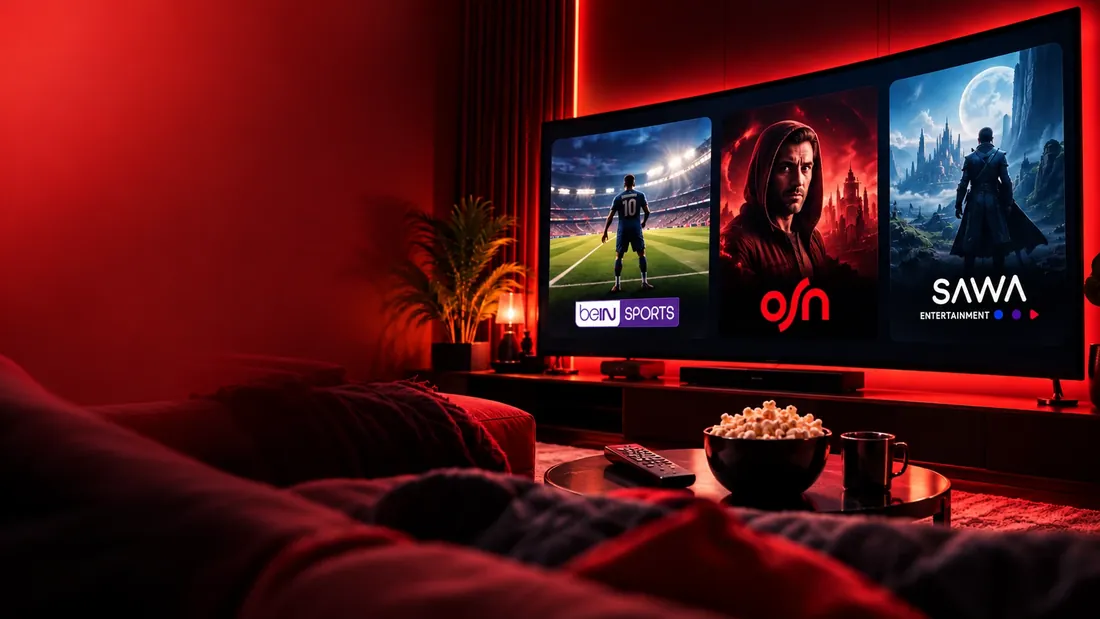
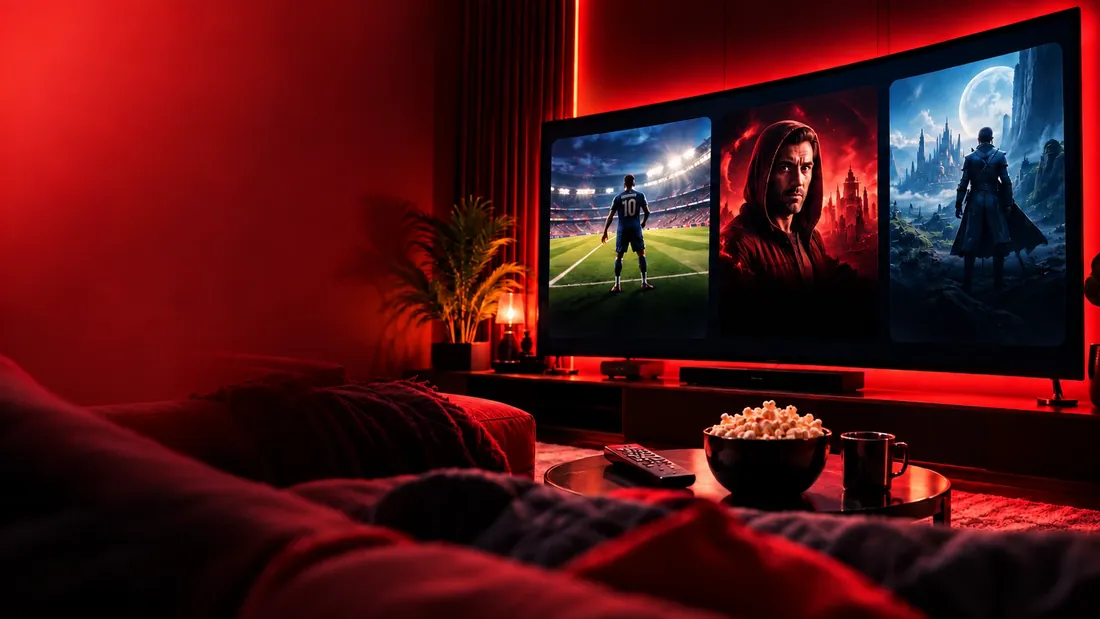
Replace offer 3 photo and restore full-size framing
New offer 3 image has no on-screen logos, so drop the zoom-out and let it fill
the card (cover) like the other cards.

Claude-Session: https://claude.ai/code/session_01KS1KMZjHe38Nbnn4cS1s28

diff --git a/index.html b/index.html
@@ -433,8 +433,6 @@ body.menu-on #drawer{clip-path:circle(150% at 100% 0)}
   opacity:0;transition:opacity 1.1s var(--ease)}
 /* offers 3 & 4 keep the original right-anchored framing */
 .offer-card:nth-child(3) .offer-media,.offer-card:nth-child(4) .offer-media{background-position:center right}
-/* offer 3: zoom the TV out so its logos clear the copy */
-.offer-card:nth-child(3) .offer-media{background-size:78% auto;background-position:right center}
 .offer-media::after{content:"";position:absolute;inset:0;
   background:linear-gradient(90deg,#C11617 0%,#C11617 24%,rgba(193,22,23,.5) 44%,rgba(193,22,23,0) 64%)}
 .offer-card.media-in .offer-media{opacity:1}
